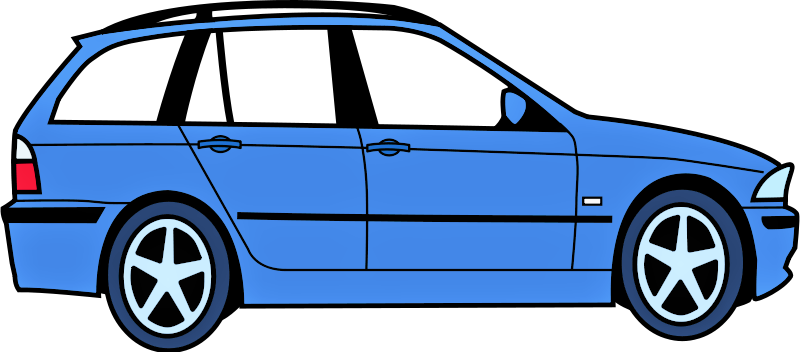
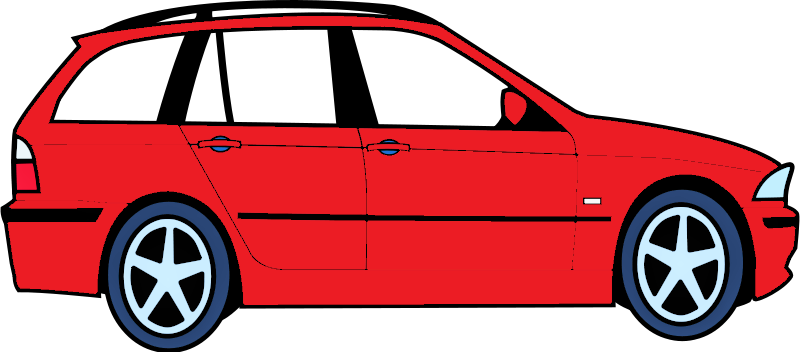
added car change and font change

diff --git a/JS/main.js b/JS/main.js
@@ -23,6 +23,23 @@ document.addEventListener("DOMContentLoaded", function(){
   var rankingBoard =  "Text/rankingBoard.json";
   var rankingRequest = new XMLHttpRequest();
 
+  var xhr = new XMLHttpRequest();
+  var url = "Text/rankingBoard.json";
+  xhr.open("POST", url, true);
+  xhr.setRequestHeader("Content-type", "application/json");
+  xhr.onreadystatechange = function () {
+      if (xhr.readyState == 4 && xhr.status == 200) {
+          var json = JSON.parse(xhr.responseText);
+          console.log(json.email + ", " + json.name)
+      }
+  }
+  var data = JSON.stringify({"email":"tomb@raider.com","name":"LaraCroft"});
+  xhr.send(data);
+
+
+  person = new Player();
+  person.name = "yun";
+
   //------------------< getting JSON file for rankingBoard >------------------------
 
   rankingRequest.open('GET', rankingBoard);
@@ -37,9 +54,8 @@ document.addEventListener("DOMContentLoaded", function(){
   function populateTable(jsonObj) {
     var table = document.getElementById("ranking");
 
-    for (var i = 0; i < jsonObj.info.length; i++) {
+    for (var i = 0; i < jsonObj.thePlayers.length; i++) {
       // jsonObj.info[i];
-      for (var j = 0; j < jsonObj.info[i].length; i++) {
         var tr = document.createElement("tr");
         var td1 = document.createElement("td");
         var td2 = document.createElement("td");
@@ -51,14 +67,13 @@ document.addEventListener("DOMContentLoaded", function(){
 
         table.appendChild(tr);
 
-        td1.textContent = jsonObj.info[i][0];
-        td2.textContent = jsonObj.info[i][1];
-        td3.textContent = jsonObj.info[i][2];
-      }
+        td1.textContent = jsonObj.thePlayers[i].name;
+        td2.textContent = jsonObj.thePlayers[i].wpm;
+        td3.textContent = jsonObj.thePlayers[i].accuracy;
     }
-
   }
 
+JSON.stringify([person.name, person.wpm, person.accuracy]);
   //------------------< getting JSON file for whiteBoard >------------------------
 
   request.open('GET', whiteBoard);
@@ -149,28 +164,31 @@ document.addEventListener("DOMContentLoaded", function(){
         if (gameEnded==true) {
           move(0);
         }else {
+          move(percent);
+          if(currentId ==wordsArray.length-2){
+            clearInputField();
+            clearInterval(myVar);
+            clearInterval(myVar2);
+            gameEnded= true;
+             $('#modalComplete').modal('show');
+             showNextButton();
+             showInstruction();
 
+          }else {
+            currentId+=1;
+            addCurrent(currentId);
+            removePrevious(currentId-1);
+            accuracy = Math.round(correctCount/currentWordCount *100) +"%";
 
-        move(percent);
-        if(currentId ==wordsArray.length-2){
-          clearInputField();
-          clearInterval(myVar);
-          clearInterval(myVar2);
-          gameEnded= true;
-           $('#modalComplete').modal('show');
-           showNextButton();
-        }else {
-          currentId+=1;
-          addCurrent(currentId);
-          removePrevious(currentId-1);
-          accuracy = Math.round(correctCount/currentWordCount *100) +"%";
-          clearInputField();
-          console.log("accuracy "+ accuracy);
-          document.getElementById("accuracy").innerHTML = accuracy;
-          wpm = Math.round((keysPressed/5)/seconds *60);
-          console.log(wpm);
+            clearInputField();
+            console.log("accuracy "+ accuracy);
+            document.getElementById("accuracy").innerHTML = accuracy;
+            wpm = Math.round((keysPressed/5)/seconds *60);
+            console.log(wpm);
+          }
+          person.wpm = wpm;
+          person.accuracy=accuracy;
         }
-      }
       }
   }
   //------------------< progress >------------------------
@@ -205,6 +223,9 @@ document.addEventListener("DOMContentLoaded", function(){
             clearInterval(myVar2);
             stop();
             document.getElementById("typing").blur();
+            showNextButton();
+            showInstruction();
+
           }
           elem.style.width = width + '%';
           moveRight(width);
@@ -310,6 +331,14 @@ function showNextButton() {
         x.style.display = "none";
     }
 }
+function showInstruction() {
+    var x = document.getElementById("Instructions");
+    if (x.style.display === "none") {
+        x.style.display = "block";
+    } else {
+        x.style.display = "none";
+    }
+}
 
 
 function Player () {
@@ -324,11 +353,45 @@ function getName() {
 function getAccuracy() {
     return this.accuracy;
 }
-function getAccuracy() {
+function getWpm() {
     return this.wpm;
 }
 
+function changeCar() {
+    var x = document.getElementById("mySelect").value;
+    // document.getElementById("demo").innerHTML = "You selected: " + x;
+    switch (x) {
+      case "BMW":
+        document.getElementById("p1").style.font = "  30px Blackadder ITC";
+        document.getElementById("typing").style.font = "  30px Blackadder ITC";
+        document.getElementById('myImage').src="IMAGES/car.png";
 
+        break;
+      case "Mercedes":
+        document.getElementById("p1").style.font = "  20px Comic Sans MS";
+        document.getElementById("typing").style.font = "  20px Comic Sans MS";
+        document.getElementById('myImage').src="IMAGES/car5.jpg";
+
+        break;
+      case "Volvo":
+        document.getElementById("p1").style.font = "  25px Berlin Sans FB";
+        document.getElementById("typing").style.font = "  25px Berlin Sans FB";
+        document.getElementById('myImage').src="IMAGES/car4.jpg";
+
+        break;
+      case "Audi":
+        document.getElementById("p1").style.font = "  Helvetica";
+        document.getElementById("typing").style.font = "Helvetica";
+        document.getElementById('myImage').src="IMAGES/car3.png";
+        console.log(x);
+        break;
+      default:
+
+    }
+
+}
+
+document.getElementById("mySelect").addEventListener("change", changeCar);
 
 
 window.onload = function() {init();};

diff --git a/index.html b/index.html
@@ -2,7 +2,7 @@
 <html lang="en" dir="ltr">
   <head>
     <meta charset="utf-8">
-    <title></title>
+    <title>KeyBoRacer</title>
     <link rel="stylesheet" href="Resources/bootstrap-3.3.7/dist/css/bootstrap.min.css"/>
     <link rel="stylesheet" href="CSS/main.css">
     <!-- <link href="Resources/css/speedometer.css" rel="stylesheet" type="text/css" /> -->
@@ -15,6 +15,9 @@
 
   </head>
   <body>
+    <div class="heading">
+      <h1>KeyBoRacer</h1>
+    </div>
     <div class="container-fluid">
       <div class="row">
         <div class="col-md-12">
@@ -40,10 +43,15 @@
            <!-- <input id="myValues" class="myValues"/> -->
            <!-- <input id="myValues" /> -->
 
-           <p>Fuel</p>
-           <div id="myProgress2"></div>
+           <p><span><i class="glyphicon glyphicon glyphicon-fire icon"></i></span>Fuel</p>
+           <span id="myProgress2"></span>
            <div id="myBar2"></div>
-
+           <select id="mySelect">
+             <option value="Audi">Audi
+             <option value="BMW">BMW
+             <option value="Mercedes">Mercedes
+             <option value="Volvo">Volvo
+           </select>
           </section>
           <div id="mdeter">
           </div>
@@ -59,8 +67,8 @@
 
       </div>
       <div class="row Instructions">
-        <div class="col-md-12">
-          <button type="button" name="button" id = "nextButton" class="btn btn-warning">next</button>
+        <div class="col-md-12" id="nextButton">
+          <!-- <button type="button" name="button" id = "nextButton" class="btn btn-warning">next</button> -->
           <h1>LeaderBoard</h1>
           <table id ="ranking">
             <th>Name</th><th>Wpm</th><th>Accuracy</th>
@@ -68,6 +76,11 @@
 
             </tr>
           </table>
+        </div>
+        <div id="Instructions">
+          <h1>Instructions</h1>
+          <p>gidn ejfewjej</p>
+        </div>
 
 
             <!-- Modal -->
@@ -104,7 +117,7 @@
                     <h4 class="modal-title">You are out of Fuel!</h4>
                   </div>
                   <div class="modal-body">
-                    <p>Some text in the modal.</p>
+                    <p>Get some more training!</p>
                   </div>
                   <div class="modal-footer">
                     <button type="button" class="btn btn-default" data-dismiss="modal">Close</button>
@@ -116,7 +129,6 @@
 
           <!-- <p>Press Start to begin, <span class= "inspace">after 3 seconds</span> count down, the timer will start. <span class ="inspace">Press -Space- to begin typing.</span> If your made a mistake, you will lose fuel, and if the fuel drops to 0, you will not be able to continue.</p>
           <p>The Goal of the game is to reach the finish line with high accuracy and shortest time.</p> -->
-        </div>
 
       </div>
 

diff --git a/CSS/main.css b/CSS/main.css
@@ -1,7 +1,12 @@
+.heading{
+  background-color: lightblue;
+}
+
 #typing{
   height: 50px;
   width: 100%;
-  font-size: 40px;
+  font-size: 30px;
+  border-radius: 5%;
 }
 
 .icon{
@@ -58,7 +63,7 @@ img.car{
 
  img.road {
     border: 1px solid #ddd;
-    border-radius: 4px;
+    border-radius: 100px;
     padding: 5px;
     width: 100%;
     height: 75px;
